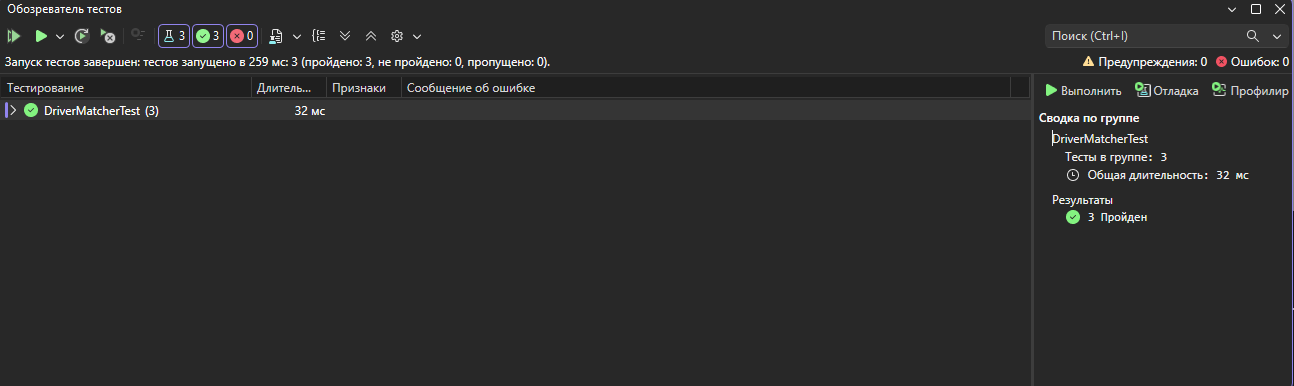
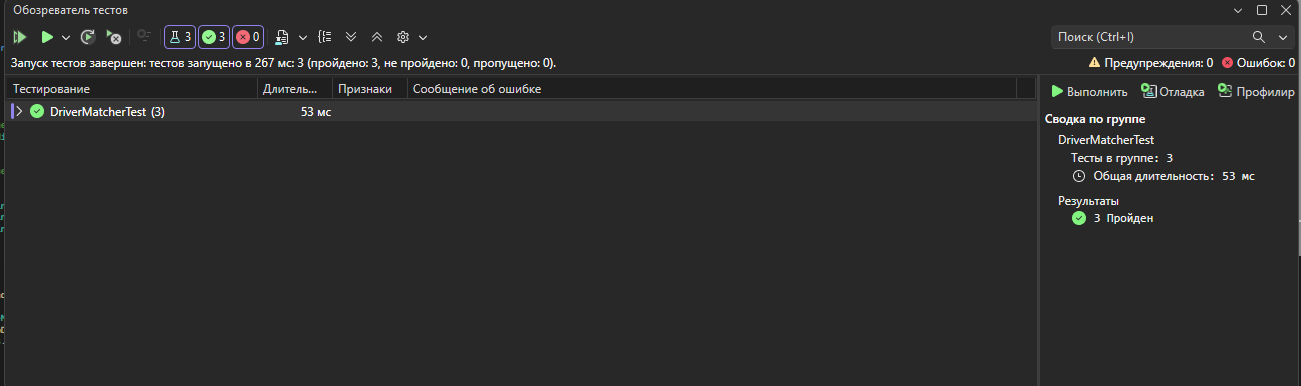
Исправил ошибки

diff --git a/DriverMatcherTest/UnitTest1.cs b/DriverMatcherTest/UnitTest1.cs
@@ -12,18 +12,16 @@ public class MatcherTests
     [SetUp]
     public void Setup()
     {
-        // Создаем тестовую карту: заказ в точке (0,0)
+        // Заказ в точке (0,0) -> ячейка (0,0)
         _order = new Order(new Coordinate(0, 0));
 
-        // Специально создаем водителей на разном расстоянии:
-        // Водитель 1 — самый близкий (расстояние 1)
-        // Водитель 2 — чуть дальше (расстояние 2)
-        // Водитель 3 — самый дальний (расстояние 10)
+        // Размер ячейки у нас 50.
+        // Сделаем так, чтобы близкие были в ячейке (0,0), а дальний - вообще в другой ячейке!
         _drivers = new List<Driver>
         {
-            new Driver(3, new Coordinate(0, 10)),
-            new Driver(1, new Coordinate(0, 1)),
-            new Driver(2, new Coordinate(0, 2))
+            new Driver(2, new Coordinate(0, 20)),  // Близкий 2 (ячейка 0,0)
+            new Driver(1, new Coordinate(0, 5)),   // Самый близкий 1 (ячейка 0,0)
+            new Driver(3, new Coordinate(0, 200))  // Очень дальний 3 (ячейка 0,4) - сетка его сразу отсечет
         };
     }
 
@@ -32,8 +30,6 @@ public class MatcherTests
     {
         var matcher = new BruteForceMatcher();
         var result = matcher.FindTopDrivers(_order, _drivers, count: 1);
-
-        // Проверяем, что вернулся именно Водитель с Id = 1
         Assert.That(result[0].Id, Is.EqualTo(1));
     }
 
@@ -42,8 +38,6 @@ public class MatcherTests
     {
         var matcher = new PriorityQueueMatcher();
         var result = matcher.FindTopDrivers(_order, _drivers, count: 2);
-
-        // Проверяем, что вернулись самые близкие: сначала Id 1, потом Id 2
         Assert.That(result[0].Id, Is.EqualTo(1));
         Assert.That(result[1].Id, Is.EqualTo(2));
     }
@@ -51,11 +45,10 @@ public class MatcherTests
     [Test]
     public void GridBucket_ShouldFindClosestDriversInRadius()
     {
-        // Передаем размер сетки (например, 50)
         var matcher = new GridBucketMatcher(cellSize: 50);
         var result = matcher.FindTopDrivers(_order, _drivers, count: 2);
 
-        // Проверяем, что пространственная сетка тоже отработала верно: сначала Id 1, потом Id 2
+        // Теперь в радиус первой ячейки гарантированно попадут только Id 1 и Id 2
         Assert.That(result[0].Id, Is.EqualTo(1));
         Assert.That(result[1].Id, Is.EqualTo(2));
     }
